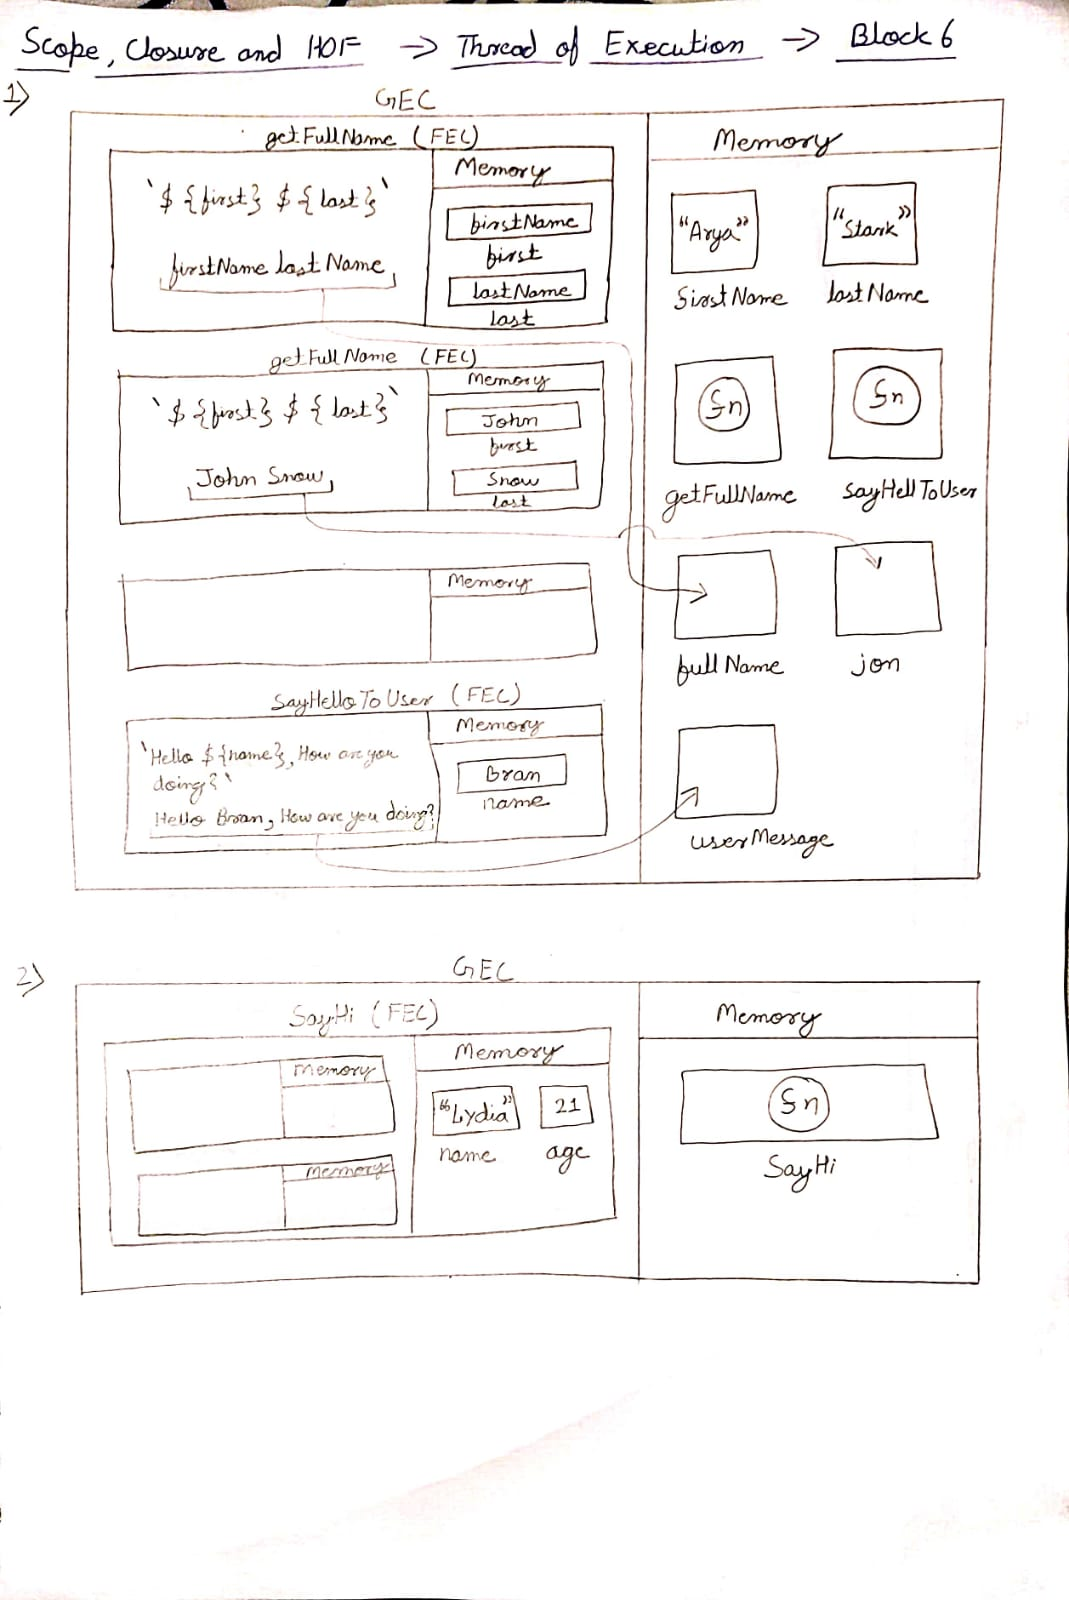
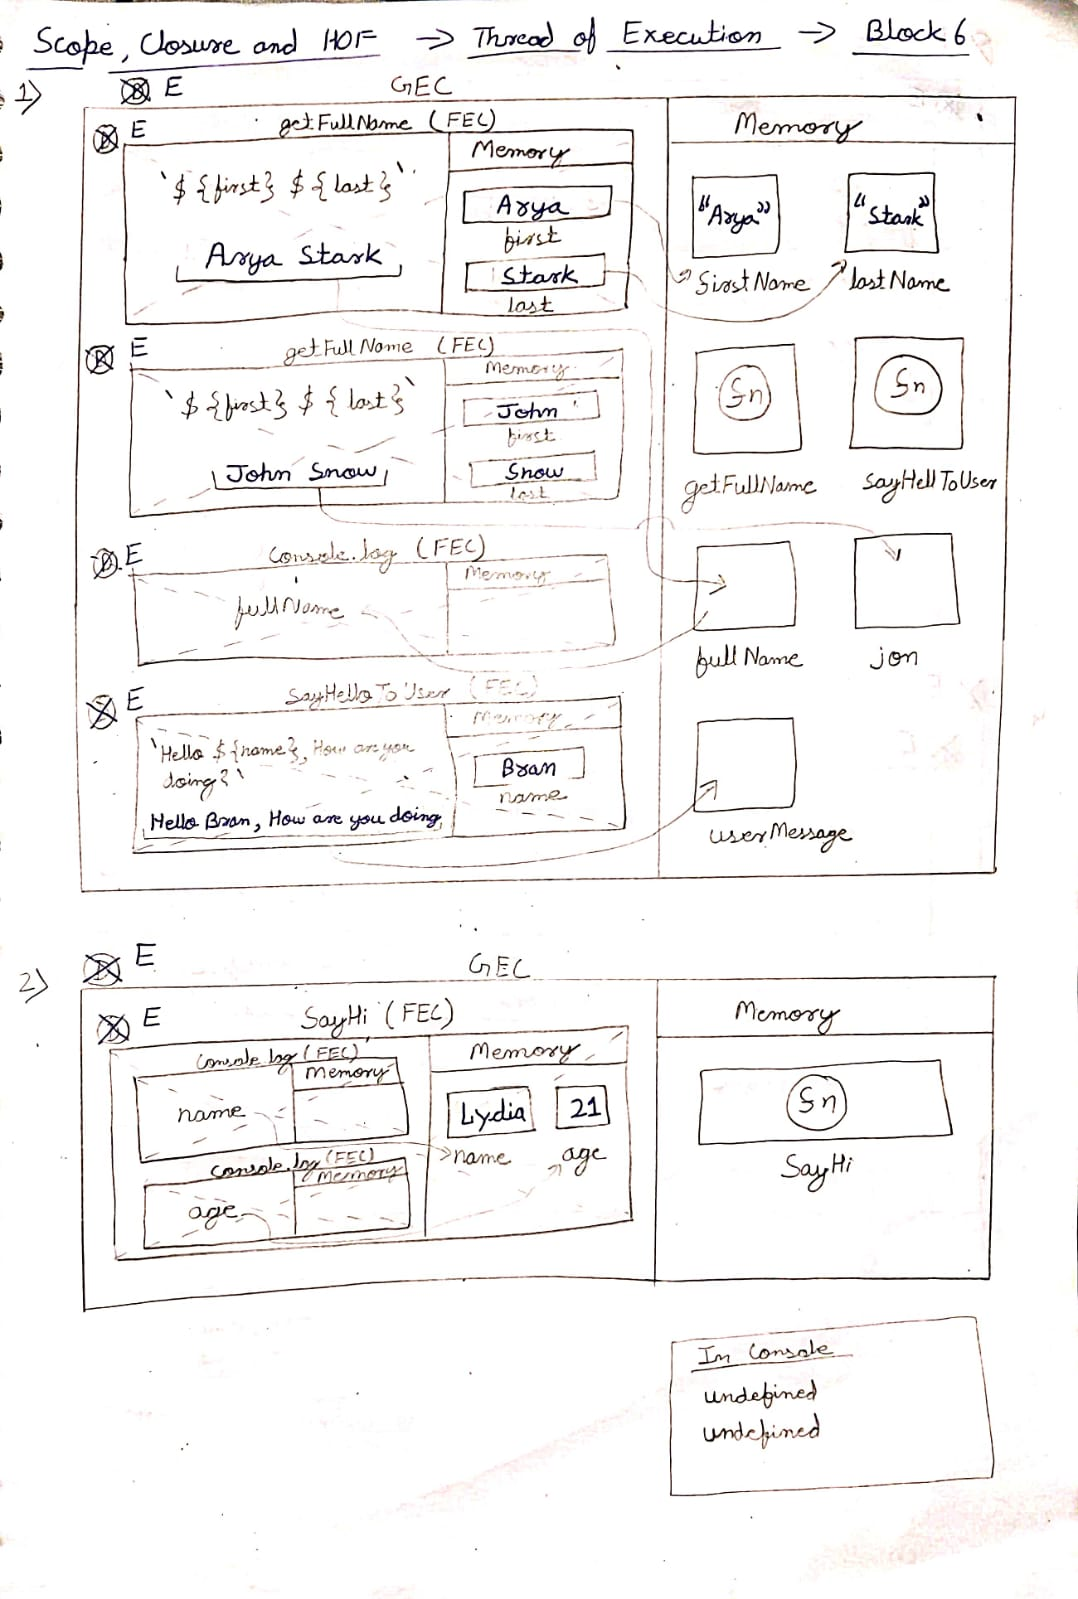
block-BJaago

diff --git a/block-BJaago/code/TODO.md b/block-BJaago/code/TODO.md
@@ -65,8 +65,8 @@ sayHi();
 4.
 
 ```js
-console.log(arr); // output
-console.log(username); // output
+console.log(arr); // undefined
+console.log(username); // undefined
 var usename = 'Sam';
 var arr = [1, 2, 3, 4, 5, 6];
 
